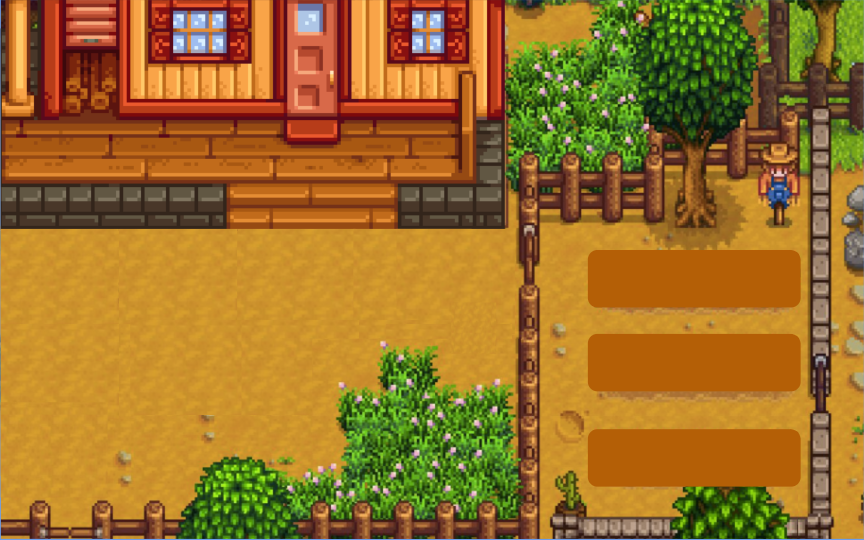
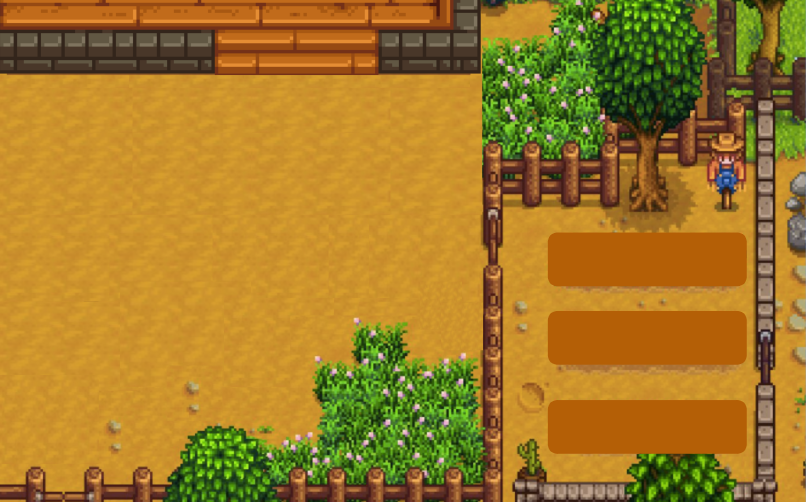
asd

diff --git a/Harvest/src/game/FarmScreenAll.java b/Harvest/src/game/FarmScreenAll.java
@@ -23,14 +23,13 @@ public class FarmScreenAll extends FullFunctionScreen {
 		back = new Graphic(0, 0, "resources/farm.PNG");
 		viewObjects.add(back);
 
-		menuJenny = new Button(5, 510, 80, 30, "Menu", new Color(230, 235, 210), null);
+		menuJenny = new Button(5, 470, 80, 30, "Menu", new Color(230, 235, 210), null);
 		viewObjects.add(menuJenny);
 		
-		shopJenny = new Button(90, 510, 80, 30, "Shop",new Color(230, 235, 210), null);
+		shopJenny = new Button(90, 470, 80, 30, "Shop", new Color(230, 235, 210), null);
 		viewObjects.add(shopJenny);
 		
-		itemJane = new Button(175, 510, 80, 30, "Inventory", new Color(230, 235, 210), null);
+		itemJane = new Button(175, 470, 80, 30, "Inventory", new Color(230, 235, 210), null);
 		viewObjects.add(itemJane);
-
 	}
 }

diff --git a/Harvest/src/game/MainGUI.java b/Harvest/src/game/MainGUI.java
@@ -3,7 +3,6 @@ package game;
 import guiTeacher.GUIApplication;
 
 public class MainGUI extends GUIApplication {
-
 	
 	public MainGUI(int width, int height) {
 		super(width, height);
@@ -16,9 +15,8 @@ public class MainGUI extends GUIApplication {
 	}
 
 	public static void main(String[] args) {
-		MainGUI m = new MainGUI(880, 557);
+		MainGUI m = new MainGUI(820, 520);
 		Thread go = new Thread(m);
 		go.start();
 	}
-
 }
